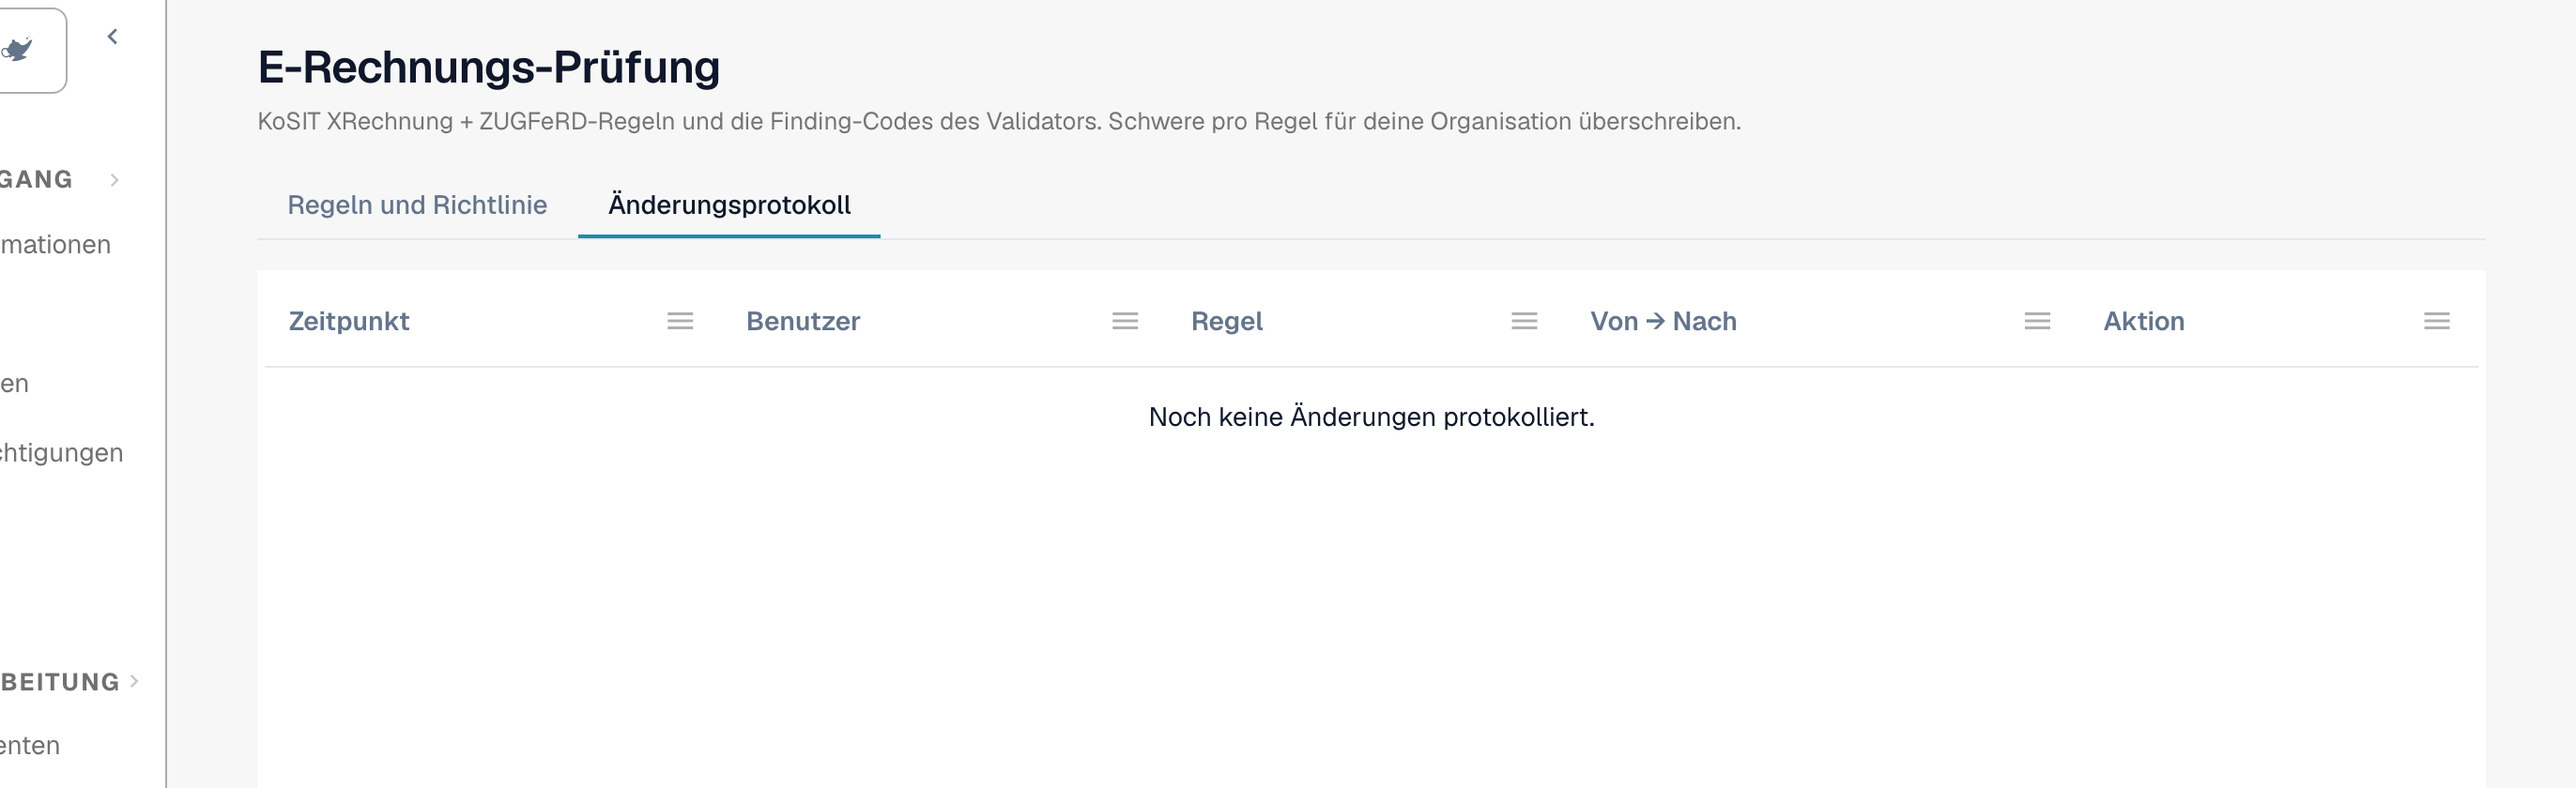
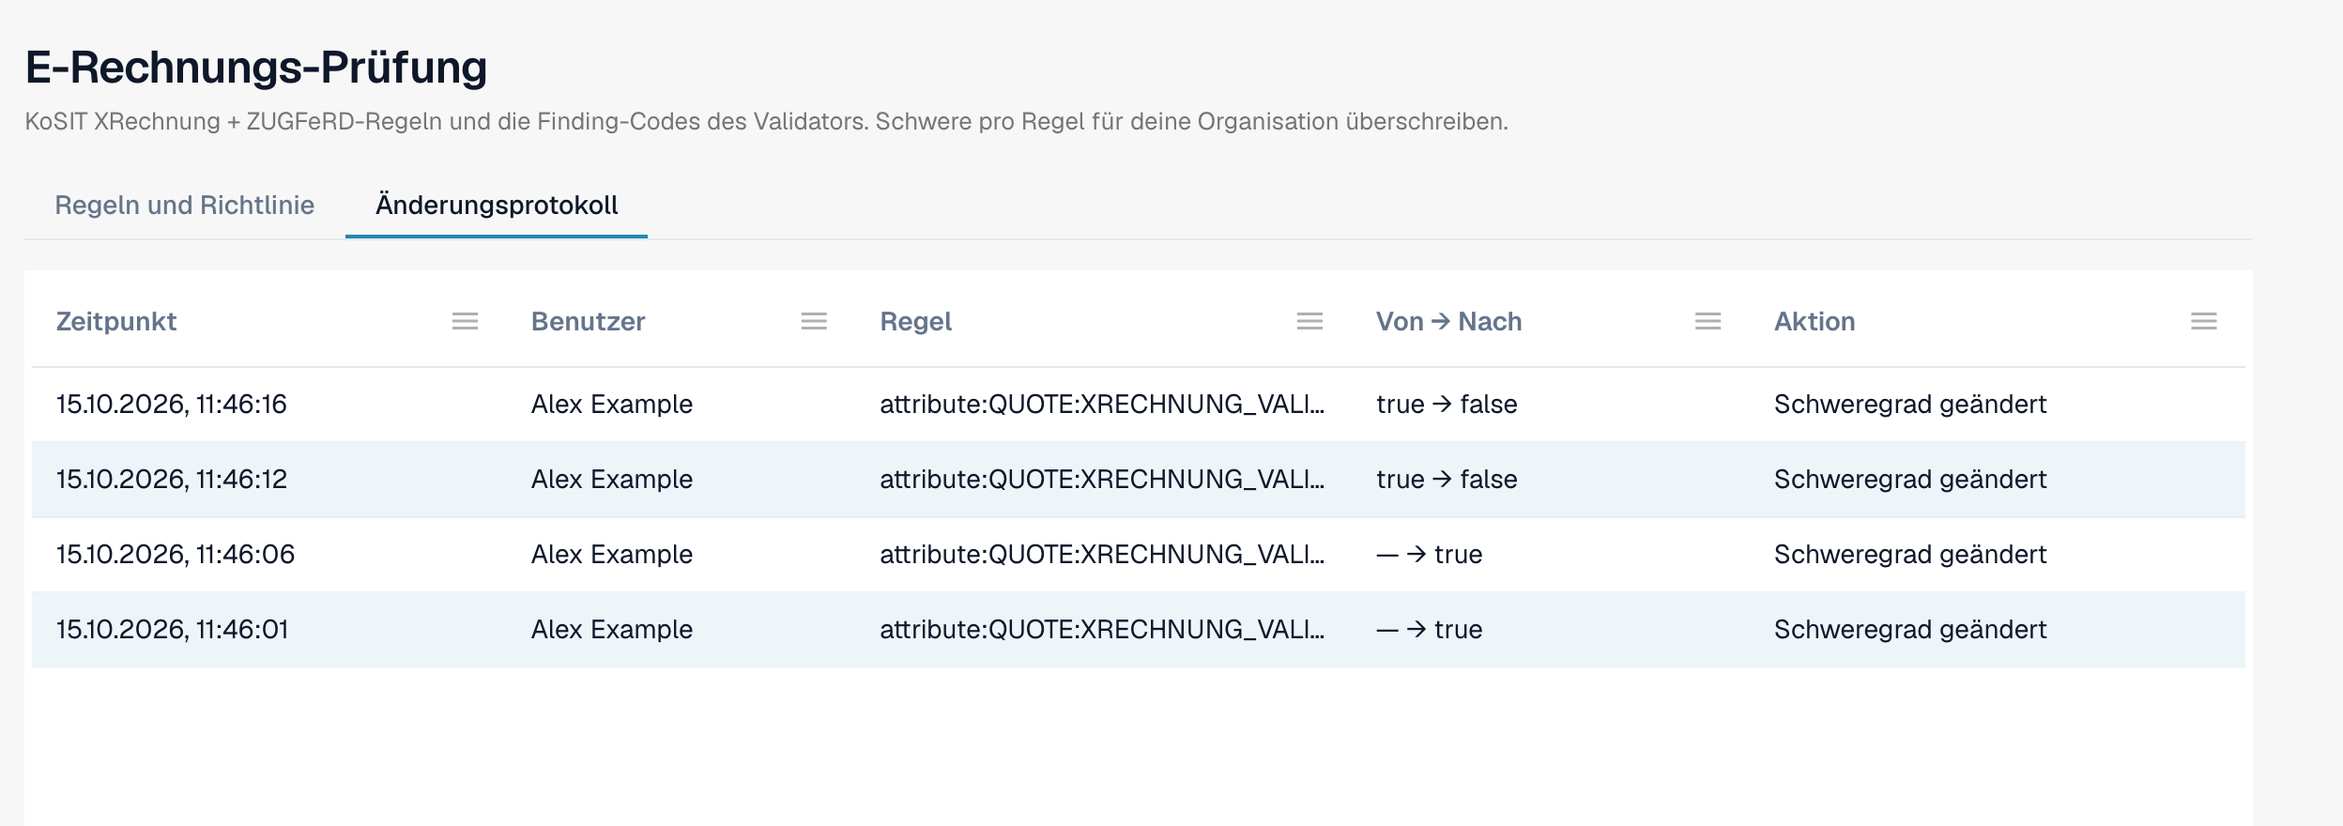
docs(de): error screen page and change log screenshot (CORE-6410)
Claude-Session: https://claude.ai/code/session_01KNaeuhcTr3YU6A9NeVaSGs

diff --git a/readme/administration-and-setup/settings/document-processing/e-documents/validation-error-screen.md b/readme/administration-and-setup/settings/document-processing/e-documents/validation-error-screen.md
@@ -1,0 +1,52 @@
+# Die Fehleransicht einer abgelehnten E-Rechnung
+
+Wenn Sie eine fehlerhafte E-Rechnung hochladen, geht sie in DocBits nicht verloren. Das Dokument erhält den Status **Fehler**, und die Fehleransicht sagt Ihnen, was falsch ist, wo und was Sie als Nächstes tun können. Diese Seite zeigt zwei Beispiele: eine XML-Datei, die nicht wohlgeformt ist, und eine Rechnung, die gegen eine Geschäftsregel verstößt.
+
+> Eine Rechnung erhält den Status **Fehler** nur, wenn die Prüfung für ihren Dokumenttyp **aktiviert** und **blockierend** ist. Siehe [Prüfung je Dokumenttyp](validation-per-document-type.md).
+
+## Beispiel 1: Die XML-Datei ist beschädigt
+
+Ein Lieferant sendet eine XML-Datei, in der ein schließendes Tag nicht zum öffnenden Tag passt. Die Datei kann nicht gelesen werden, daher stoppt DocBits bei der ersten Prüfung, **L1 · XML-Wohlgeformtheit**.
+
+<figure><img src="../../../../.gitbook/assets/einvoice-error-xml-malformed-de.png" alt="Die Fehleransicht für eine nicht wohlgeformte XML-Datei: links das XML mit der markierten fehlerhaften Zeile, rechts die Erklärung"><figcaption><p>Die Fehleransicht für eine beschädigte XML-Datei. Die fehlerhafte Zeile ist im XML markiert. Beispieldatei mit fiktiven Daten.</p></figcaption></figure>
+
+Die Ansicht hat zwei Seiten:
+
+* **Links: die XML-Datei.** DocBits zeigt die Datei mit Zeilennummern. Die Zeile mit dem Problem ist rot markiert. Mit den Schaltflächen über der Datei kopieren Sie das XML oder öffnen es in einem neuen Tab.
+* **Rechts: die Erklärung.** Die Karte **Abgelehnt durch** nennt die Prüfung, die die Datei gestoppt hat (hier **L1 · XML-Wohlgeformtheit**), und den Regelcode (hier `XML-PARSE`). Darunter sehen Sie einen Titel in verständlicher Sprache (*XML ist nicht wohlgeformt*), eine kurze Erklärung und den Block **Nächster Schritt**.
+
+Wählen Sie **Validierungs-Details anzeigen**, um den vollständigen [Prüfbericht](validation-report.md) zu öffnen.
+
+<figure><img src="../../../../.gitbook/assets/einvoice-report-xml-malformed-de.png" alt="Der Prüfbericht der beschädigten XML-Datei mit dem Finding XML-PARSE"><figcaption><p>Der Bericht zur beschädigten Datei: ein Fehler auf Ebene 1 Syntax, mit der technischen Meldung und der Position</p></figcaption></figure>
+
+Der Bericht nennt die genaue Position (hier Zeile 5, Spalte 4081) und gibt die technische Meldung des XML-Parsers wieder. Wählen Sie **Im XML anzeigen**, um zu dieser Zeile zu springen. Der Hinweis **So beheben Sie den Fehler** sagt Ihnen, dass Sie den Absender um eine korrigierte Datei bitten sollen.
+
+## Beispiel 2: Die Rechnung verstößt gegen eine Geschäftsregel
+
+Das XML ist in Ordnung, aber ein Pflichtfeld fehlt. Zum Beispiel kann der Verkäufer nicht identifiziert werden, weil weder eine Verkäufer-Kennung, noch eine Registrierungskennung, noch eine Umsatzsteuer-Kennung vorhanden ist (Regel `BR-CO-26`).
+
+<figure><img src="../../../../.gitbook/assets/einvoice-error-view-de.png" alt="Die Fehleransicht für eine Rechnung, die gegen eine Geschäftsregel verstößt"><figcaption><p>Die Fehleransicht bei einem Geschäftsregel-Fehler: die Ebene <strong>L3 · Geschäftsregeln</strong>, der Regelcode und ein nächster Schritt</p></figcaption></figure>
+
+Hier nennt die Karte die Ebene **L3 · Geschäftsregeln** und den Code `BR-CO-26`. Der Bericht listet alle Findings der Rechnung auf, siehe [Prüfbericht](validation-report.md).
+
+## Die Schaltflächen unter der Karte
+
+| Schaltfläche | Was sie bewirkt |
+| --- | --- |
+| **Verarbeitung neu starten** | Führt die Verarbeitung des Dokuments erneut aus, zum Beispiel nachdem Sie eine Einstellung geändert haben. Die Prüfung verwendet die aktuellen Einstellungen. |
+| **DocFlow anzeigen** | Zeigt den Workflow des Dokuments. |
+| **Kopierdetails** | Kopiert die Fehlerdetails, zum Beispiel für eine Nachricht an Ihren Administrator. |
+| **Ticket erstellen** | Öffnet ein Support-Ticket mit den Fehlerdetails. |
+
+Wählen Sie **Technische Details anzeigen** auf der Karte, um die technischen Rohinformationen zu sehen.
+
+## Was Sie als Nächstes tun
+
+* **Fehler:** Bitten Sie den Absender um eine korrigierte Rechnung oder [lehnen Sie das Dokument ab](validation-next-step-and-reject.md). Eine korrigierte Rechnung ist ein neues Dokument.
+* **Nur Warnungen:** Das Dokument ist nicht blockiert. Sie können fortfahren.
+
+## Verwandte Seiten
+
+* [Prüfbericht](validation-report.md): alle Findings, Ebene für Ebene.
+* [Nächster Schritt und Dokument ablehnen](validation-next-step-and-reject.md)
+* [Prüfung je Dokumenttyp](validation-per-document-type.md): Prüfung einschalten und Blockierung festlegen.

diff --git a/readme/administration-and-setup/settings/document-processing/e-documents/validation-rules.md b/readme/administration-and-setup/settings/document-processing/e-documents/validation-rules.md
@@ -14,5 +14,6 @@ Die Seite **E-Rechnungs-Prüfung** (**Einstellungen → E-Dokumente → E-Rechnu
 | [Regel-Schweregrade](validation-rule-severities.md) | Die Regeltabelle: Ändern Sie den Schweregrad jeder Regel für Ihre Organisation. | Organisationsadministratoren |
 | [Prüfung je Dokumenttyp](validation-per-document-type.md) | Prüfung einschalten (**Aktiviert**) und festlegen, ob eine fehlgeschlagene Prüfung das Dokument stoppt (**Blockierend**). Jede Änderung muss bestätigt werden. | Organisationsadministratoren |
 | [Änderungsprotokoll](validation-change-log.md) | Jede Änderung der Einstellungen: wann, wer, welche Regel, von → nach. | Organisationsadministratoren |
+| [Die Fehleransicht einer abgelehnten E-Rechnung](validation-error-screen.md) | Was Sie sehen, wenn Sie eine fehlerhafte XML hochladen: die Erklärung, die fehlerhafte Zeile und der nächste Schritt. | Alle, die Rechnungen bearbeiten |
 | [Prüfbericht](validation-report.md) | Was ein Benutzer sieht, wenn eine Rechnung die Prüfung nicht besteht: die Findings in verständlicher Sprache. Er öffnet sich am Dokument, nicht auf dieser Seite. | Alle, die Rechnungen bearbeiten |
 | [Nächster Schritt und Dokument ablehnen](validation-next-step-and-reject.md) | Was Sie nach dem Lesen des Berichts tun, der Download des Berichts und **Dokument ablehnen**. | Alle, die Rechnungen bearbeiten |

diff --git a/readme/administration-and-setup/settings/document-processing/e-documents/validation-report.md b/readme/administration-and-setup/settings/document-processing/e-documents/validation-report.md
@@ -1,6 +1,6 @@
 # Prüfbericht
 
-Wenn DocBits eine E-Rechnung ablehnt, können Sie genau nachlesen, warum. Der **Prüfbericht** listet jedes Finding in verständlicher Sprache auf, sagt Ihnen, was zu korrigieren ist, und zeigt den nächsten Schritt. Sie öffnen ihn am Dokument, nicht in den Einstellungen.
+Wenn DocBits eine E-Rechnung ablehnt, können Sie genau nachlesen, warum. Der **Prüfbericht** listet jedes Finding in verständlicher Sprache auf, sagt Ihnen, was zu korrigieren ist, und zeigt den nächsten Schritt. Sie öffnen ihn am Dokument, nicht in den Einstellungen. Die Ansicht, in der Sie ihn finden, ist beschrieben unter [Die Fehleransicht einer abgelehnten E-Rechnung](validation-error-screen.md).
 
 Diese Seite richtet sich an Personen, die Rechnungen bearbeiten. Administratoren legen die Regeln auf der Seite [E-Rechnungs-Prüfung](validation-rules.md) fest und wählen je Dokumenttyp, ob eine fehlgeschlagene Prüfung die Rechnung blockiert, siehe [Prüfung je Dokumenttyp](validation-per-document-type.md).
 

diff --git a/readme/SUMMARY.md b/readme/SUMMARY.md
@@ -441,6 +441,7 @@
         * [Regel-Schweregrade](administration-and-setup/settings/document-processing/e-documents/validation-rule-severities.md)
         * [Prüfung je Dokumenttyp](administration-and-setup/settings/document-processing/e-documents/validation-per-document-type.md)
         * [Änderungsprotokoll](administration-and-setup/settings/document-processing/e-documents/validation-change-log.md)
+        * [Die Fehleransicht einer abgelehnten E-Rechnung](administration-and-setup/settings/document-processing/e-documents/validation-error-screen.md)
         * [Prüfbericht](administration-and-setup/settings/document-processing/e-documents/validation-report.md)
         * [Nächster Schritt und Dokument ablehnen](administration-and-setup/settings/document-processing/e-documents/validation-next-step-and-reject.md)
       * [Benachrichtigungsrouting](administration-and-setup/settings/document-processing/e-documents/notification-routing.md)

diff --git a/readme/administration-and-setup/settings/document-processing/e-documents/validation-change-log.md b/readme/administration-and-setup/settings/document-processing/e-documents/validation-change-log.md
@@ -4,7 +4,7 @@ Das **Änderungsprotokoll** hält jede Änderung der Prüfungseinstellungen fest
 
 Öffnen Sie den Tab **Änderungsprotokoll** neben **Regeln und Richtlinie**.
 
-<figure><img src="../../../../.gitbook/assets/einvoice-validation-change-log-de.png" alt="Der Tab Änderungsprotokoll mit den Spalten Zeitpunkt, Benutzer, Regel, Von → Nach und Aktion"><figcaption><p>Das Änderungsprotokoll einer Organisation ohne bisherige Änderungen</p></figcaption></figure>
+<figure><img src="../../../../.gitbook/assets/einvoice-validation-change-log-de.png" alt="Der Tab Änderungsprotokoll mit den Spalten Zeitpunkt, Benutzer, Regel, Von → Nach und Aktion"><figcaption><p>Das Änderungsprotokoll mit vier Beispiel-Einträgen. Der Benutzername ist durch einen Beispielnamen ersetzt.</p></figcaption></figure>
 
 | Spalte | Was sie zeigt |
 | --- | --- |
